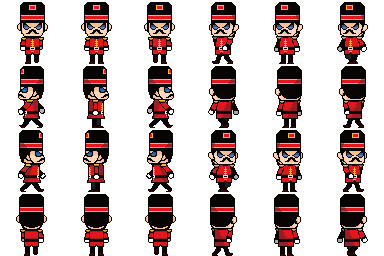
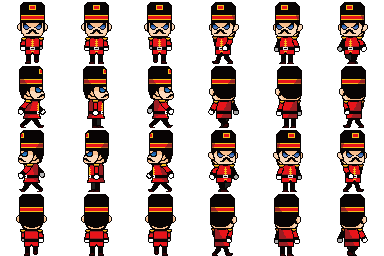
プレイヤー、兵隊の画像修正

Changed region(s): [[0.0312, 0.25, 0.125, 0.75], [0.0312, 0.7188, 0.0625, 0.75]]

diff --git a/LanturnGame/Object/Player.cpp b/LanturnGame/Object/Player.cpp
@@ -24,7 +24,7 @@ void Player::Initialize(GameMain* _g, int _obj_pos)
 	CharaBase::Initialize(_g, _obj_pos);
 	type = (int)TYPE::_PLAYER;
 	//LoadDivGraph("Resources/images/player.png", 12, 3, 4, 64, 64, playerimg);
-	LoadDivGraph("Resources/images/newplayer.jpg", 24, 6, 4, 64, 64, playerimg);
+	LoadDivGraph("Resources/images/newplayer.png", 24, 6, 4, 64, 64, playerimg);
 	deadplayer_img = LoadGraph("Resources/images/player_death.png");
 	angry_img = LoadGraph("Resources/images/angry.png");
 }
